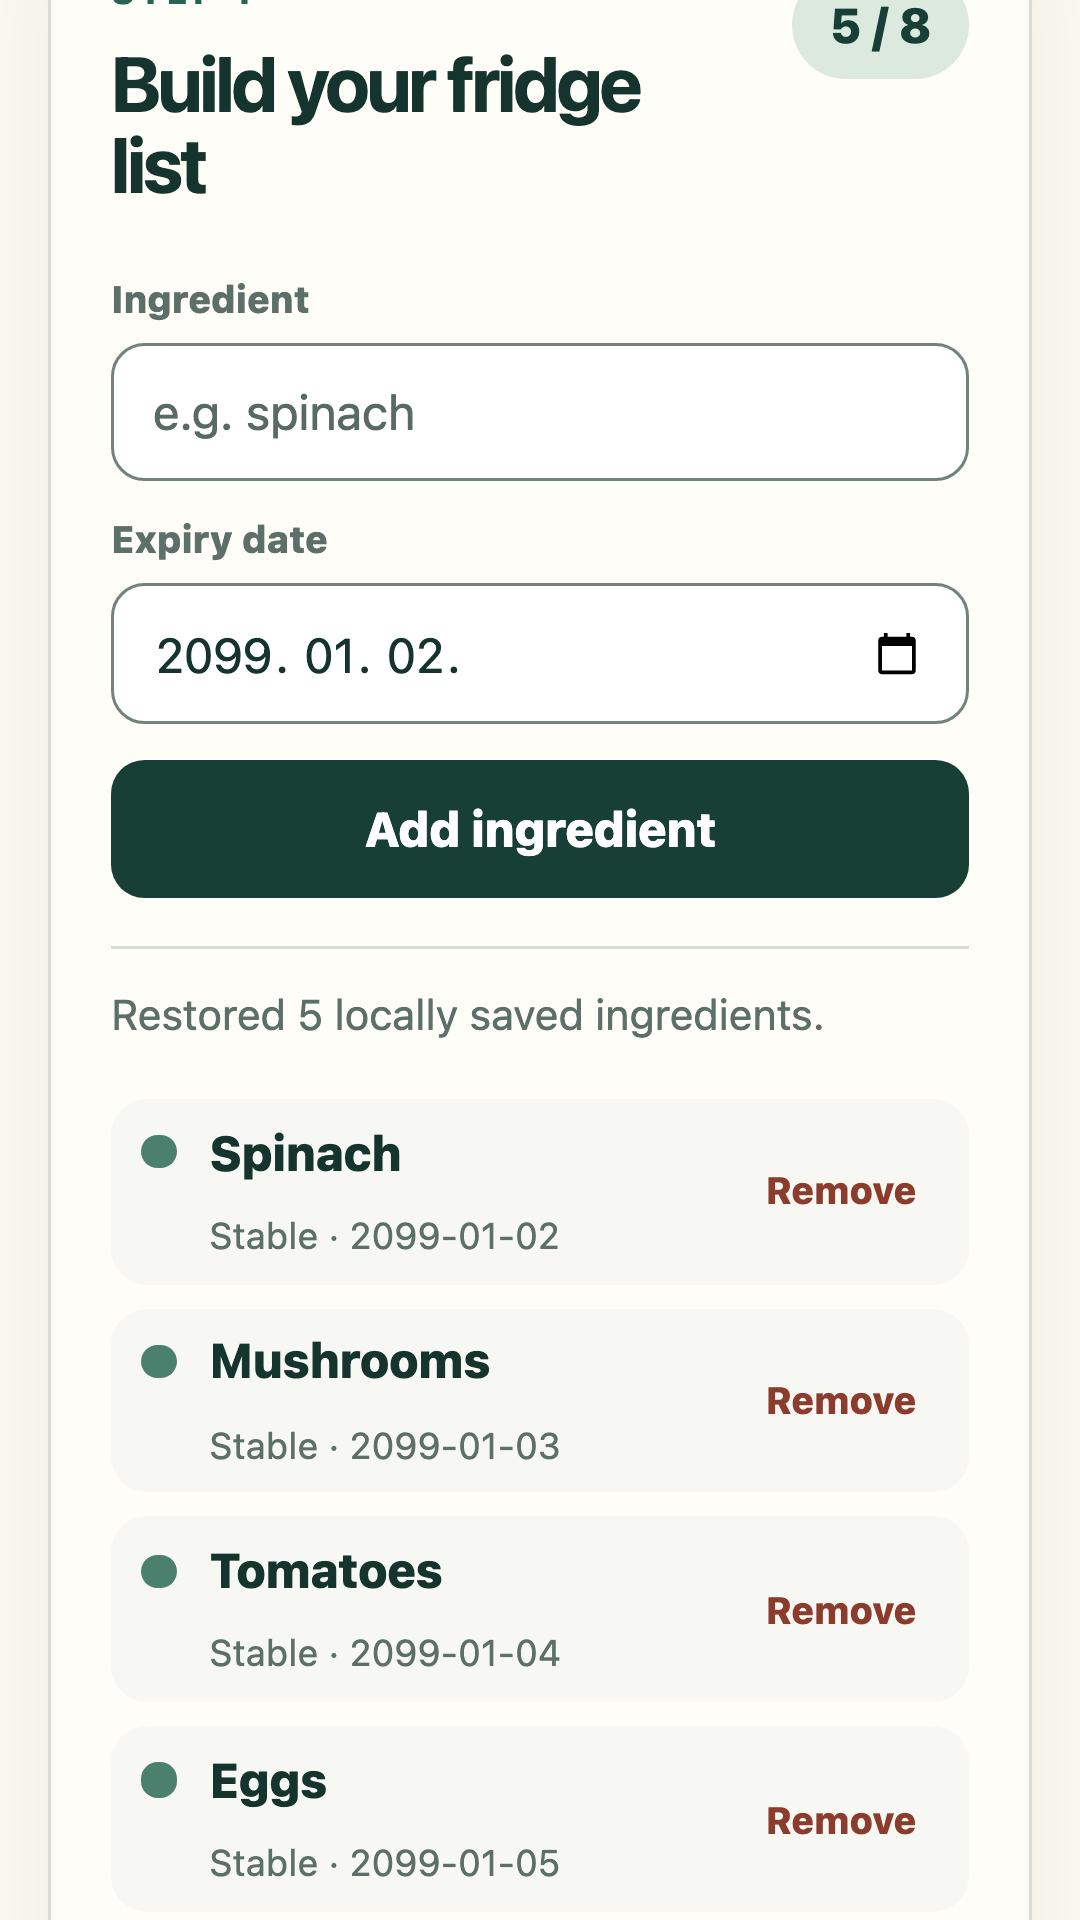
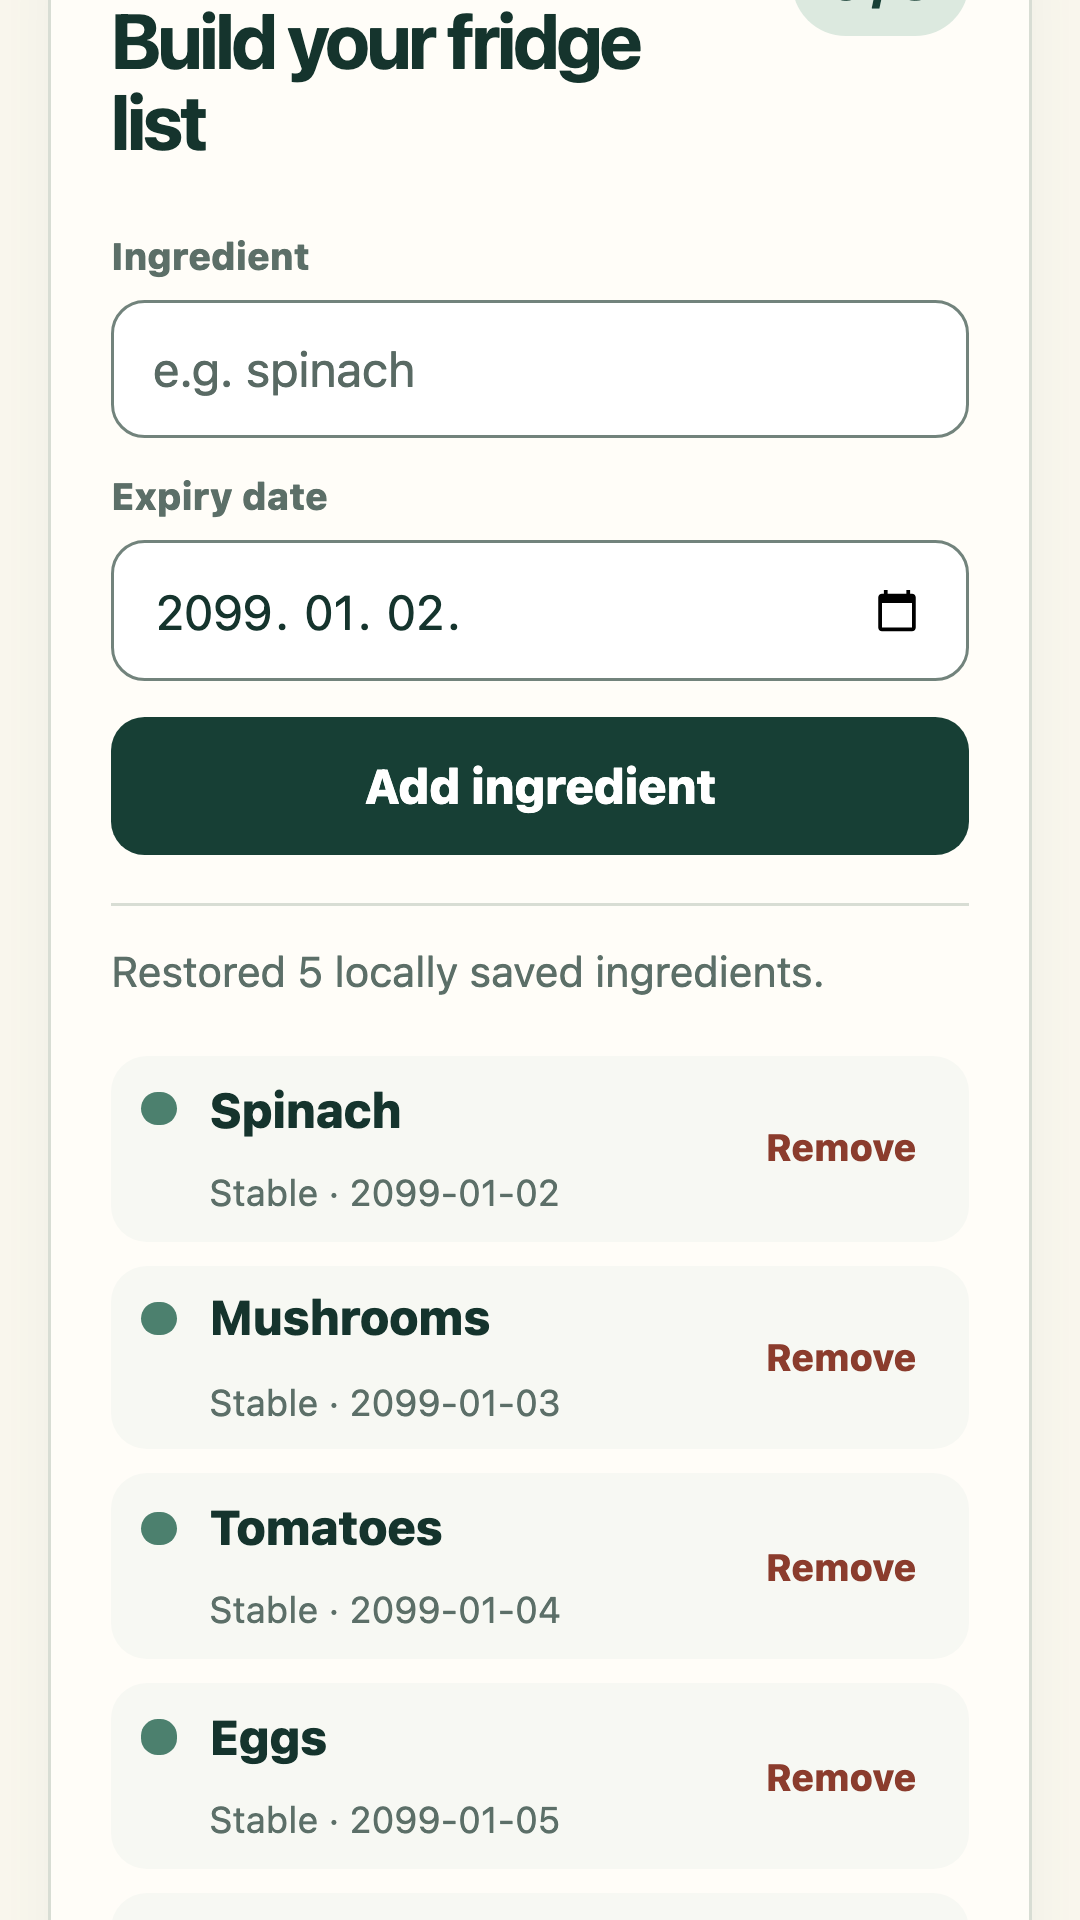
fix: sync resumed tabs and deterministic captures

diff --git a/tests/release-evidence.test.js b/tests/release-evidence.test.js
@@ -15,6 +15,7 @@ import {
 } from "../scripts/release-evidence-lib.mjs";
 import { validateCiReleaseProof } from "../scripts/ci-release-receipt.mjs";
 import { computeStaticReleaseChecks } from "../scripts/release-checks.mjs";
+import { CACHED_SHELL_FILES, runtimeShellVersion } from "../scripts/runtime-shell.mjs";
 
 test("deep release evidence accepts regular files and rejects traversal and symlinks", async () => {
   const root = await mkdtemp(join(tmpdir(), "fridge-menu-evidence-"));
@@ -66,8 +67,11 @@ test("release checks reject concatenated remote URLs and use narrow check names"
   assert.equal(computeStaticReleaseChecks({ ...fixture, serviceWorker: 'fetch("ht" + "tps://evil.example/")' }).offline_static, "FAIL");
   assert.equal(computeStaticReleaseChecks({ ...fixture, serviceWorker: 'importScripts("//evil.example/worker.js")' }).offline_static, "FAIL");
   assert.equal(computeStaticReleaseChecks({ ...fixture, css: `${fixture.css} .remove-button { max-height: 1px; }` }).touch_target_static, "FAIL");
+  assert.equal(computeStaticReleaseChecks({ ...fixture, css: ".remove-button { min-width: 2.75rem; min-height: 2.75rem; transform: scale(0.01); }" }).touch_target_static, "FAIL");
   assert.equal(computeStaticReleaseChecks({ ...fixture, mainActivity: `${fixture.mainActivity} view.loadUrl(String.fromCharCode(104));` }).privacy_security_static, "FAIL");
+  assert.equal(computeStaticReleaseChecks({ ...fixture, mainActivity: `${fixture.mainActivity} view.loadDataWithBaseURL("dynamic", "", "text/html", "UTF-8", null);` }).privacy_security_static, "FAIL");
   assert.equal(computeStaticReleaseChecks({ ...fixture, serviceWorker: "fetch(String.fromCharCode(104))" }).offline_static, "FAIL");
+  assert.equal(computeStaticReleaseChecks({ ...fixture, serviceWorker: 'globalThis["fe" + "tch"]("dynamic")' }).offline_static, "FAIL");
 });
 
 test("reproducibility and manifest/evidence agreement fail closed", () => {
@@ -95,4 +99,19 @@ test("CI receipt binds an unsigned proof bundle to the exact workflow SHA", () =
   assert.throws(() => validateCiReleaseProof({ ...proof, aab: { ...aab, signing: "SIGNED" } }), /unsigned/i);
   assert.throws(() => validateCiReleaseProof({ ...proof, manifest: { ...manifest, aab: { ...aab, sha256: "b".repeat(64) } } }), /proof mismatch/i);
   assert.throws(() => validateCiReleaseProof({ ...proof, manifestSha256: "b".repeat(64) }), /manifest bytes/i);
+});
+
+test("runtime cache identity binds shell bytes and normalized worker policy", async () => {
+  const root = await mkdtemp(join(tmpdir(), "fridge-menu-shell-"));
+  try {
+    for (const name of CACHED_SHELL_FILES) await writeFile(join(root, name), `fixture:${name}`);
+    await writeFile(join(root, "service-worker.js"), 'const CACHE_NAME = "fridge-menu-shell-one";\nconst POLICY = "cache-first";\n');
+    const first = await runtimeShellVersion(root);
+    await writeFile(join(root, "service-worker.js"), 'const CACHE_NAME = "fridge-menu-shell-two";\nconst POLICY = "cache-first";\n');
+    assert.equal(await runtimeShellVersion(root), first, "cache-name self reference must be normalized");
+    await writeFile(join(root, "service-worker.js"), 'const CACHE_NAME = "fridge-menu-shell-two";\nconst POLICY = "network-first";\n');
+    assert.notEqual(await runtimeShellVersion(root), first, "worker policy changes must rotate cache identity");
+  } finally {
+    await rm(root, { recursive: true, force: true });
+  }
 });

diff --git a/tests/app-contract.test.js b/tests/app-contract.test.js
@@ -424,6 +424,9 @@ test("user values are rendered with textContent and browser workflow persists al
   assert.match(app, /for this session only; safe multi-tab saving is unavailable\./);
   assert.match(app, /window\.addEventListener\("storage"/);
   assert.match(app, /event\.key !== STORAGE_KEY && event\.key !== null/);
+  assert.match(app, /function syncFromStorageIfChanged\(\)/);
+  assert.match(app, /const latestRaw = storage\.getItem\(STORAGE_KEY\)/);
+  assert.match(app, /Updated from saved data after returning to this tab\./);
   assert.match(app, /Another tab changed saved data/);
 });
 
@@ -458,10 +461,13 @@ test("release checks are computed from source files and executed commands", asyn
   assert.deepEqual(passing, { touch_target_static: "PASS", privacy_security_static: "PASS", offline_static: "PASS" });
   assert.equal(computeStaticReleaseChecks({ ...fixture, css: ".remove-button { padding: 0; }" }).touch_target_static, "FAIL");
   assert.equal(computeStaticReleaseChecks({ ...fixture, css: `${fixture.css} .remove-button { max-width: 1px; }` }).touch_target_static, "FAIL");
+  assert.equal(computeStaticReleaseChecks({ ...fixture, css: ".remove-button { min-width: 2.75rem; min-height: 2.75rem; transform: scale(0.01); }" }).touch_target_static, "FAIL");
   assert.equal(computeStaticReleaseChecks({ ...fixture, androidManifest: "<uses-permission />" }).privacy_security_static, "FAIL");
   assert.equal(computeStaticReleaseChecks({ ...fixture, serviceWorker: 'fetch("https://example.test")' }).offline_static, "FAIL");
   assert.equal(computeStaticReleaseChecks({ ...fixture, serviceWorker: "fetch(String.fromCharCode(104,116,116,112))" }).offline_static, "FAIL");
+  assert.equal(computeStaticReleaseChecks({ ...fixture, serviceWorker: 'globalThis["fe" + "tch"]("dynamic")' }).offline_static, "FAIL");
   assert.equal(computeStaticReleaseChecks({ ...fixture, mainActivity: `${fixture.mainActivity} view.loadUrl(String.fromCharCode(104,116,116,112));` }).privacy_security_static, "FAIL");
+  assert.equal(computeStaticReleaseChecks({ ...fixture, mainActivity: `${fixture.mainActivity} view.loadDataWithBaseURL("dynamic", "", "text/html", "UTF-8", null);` }).privacy_security_static, "FAIL");
 });
 
 test("Android evidence generator binds computed release checks and identity to the current artifact", async () => {
@@ -539,6 +545,9 @@ test("release path is reproducible, signing-ready, privacy-preserving, and owner
   assert.match(capture, /--lang=en-US/);
   assert.match(capture, /Emulation\.setLocaleOverride/);
   assert.match(capture, /Emulation\.setTimezoneOverride/);
+  assert.match(capture, /Emulation\.setEmulatedMedia/);
+  assert.match(capture, /prefers-reduced-motion/);
+  assert.match(capture, /document\.fonts\.ready/);
   assert.match(capture, /Page\.addScriptToEvaluateOnNewDocument/);
   assert.match(capture, /2026-08-25T08:00:00\.000Z/);
   assert.match(capture, /ingredient-expiry[^\n]*2099-01-02/);

diff --git a/app.js b/app.js
@@ -531,6 +531,19 @@ function boot() {
     restoreDynamicFocus(focusSnapshot);
   }
 
+  function syncFromStorageIfChanged() {
+    if (!storage || hasSessionOnlyChanges) return "unchanged";
+    try {
+      const latestRaw = storage.getItem(STORAGE_KEY);
+      if (latestRaw === lastKnownRaw) return "unchanged";
+      applyState(parseStoredState(latestRaw));
+      lastKnownRaw = latestRaw;
+      return "updated";
+    } catch {
+      return "blocked";
+    }
+  }
+
   function scheduleDayRollover() {
     window.clearTimeout(dayRolloverTimer);
     dayRolloverTimer = window.setTimeout(() => {
@@ -650,8 +663,11 @@ function boot() {
 
   document.addEventListener("visibilitychange", () => {
     if (document.visibilityState !== "visible") return;
+    const syncStatus = syncFromStorageIfChanged();
     refreshRenderedStatePreservingFocus();
     scheduleDayRollover();
+    if (syncStatus === "updated") announce("Updated from saved data after returning to this tab.");
+    if (syncStatus === "blocked") announce("Saved data could not be checked after returning to this tab.", "warning");
   });
 
   render();

diff --git a/dist/app.js b/dist/app.js
@@ -531,6 +531,19 @@ function boot() {
     restoreDynamicFocus(focusSnapshot);
   }
 
+  function syncFromStorageIfChanged() {
+    if (!storage || hasSessionOnlyChanges) return "unchanged";
+    try {
+      const latestRaw = storage.getItem(STORAGE_KEY);
+      if (latestRaw === lastKnownRaw) return "unchanged";
+      applyState(parseStoredState(latestRaw));
+      lastKnownRaw = latestRaw;
+      return "updated";
+    } catch {
+      return "blocked";
+    }
+  }
+
   function scheduleDayRollover() {
     window.clearTimeout(dayRolloverTimer);
     dayRolloverTimer = window.setTimeout(() => {
@@ -650,8 +663,11 @@ function boot() {
 
   document.addEventListener("visibilitychange", () => {
     if (document.visibilityState !== "visible") return;
+    const syncStatus = syncFromStorageIfChanged();
     refreshRenderedStatePreservingFocus();
     scheduleDayRollover();
+    if (syncStatus === "updated") announce("Updated from saved data after returning to this tab.");
+    if (syncStatus === "blocked") announce("Saved data could not be checked after returning to this tab.", "warning");
   });
 
   render();

diff --git a/dist/service-worker.js b/dist/service-worker.js
@@ -1,4 +1,4 @@
-const CACHE_NAME = "fridge-menu-shell-2c9dcebf73082d73";
+const CACHE_NAME = "fridge-menu-shell-dba20ae2c82d578d";
 const APP_SHELL = Object.freeze([
   "./",
   "./index.html",

diff --git a/service-worker.js b/service-worker.js
@@ -1,4 +1,4 @@
-const CACHE_NAME = "fridge-menu-shell-2c9dcebf73082d73";
+const CACHE_NAME = "fridge-menu-shell-dba20ae2c82d578d";
 const APP_SHELL = Object.freeze([
   "./",
   "./index.html",
